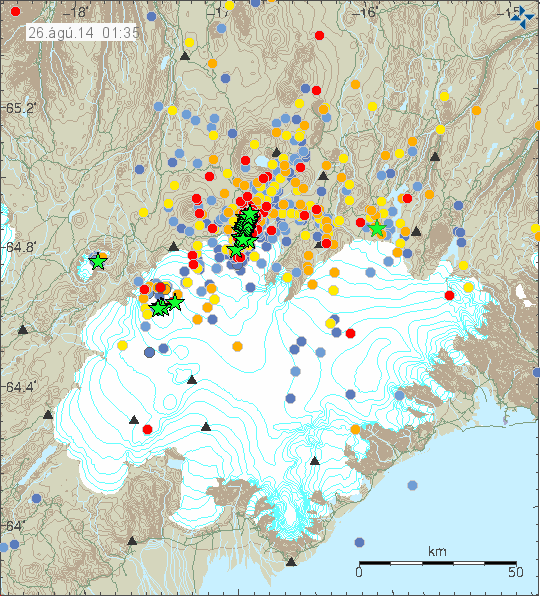
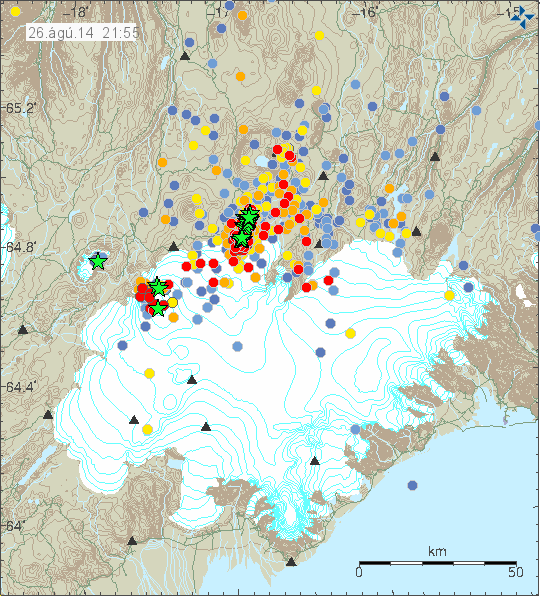
Adding controls

diff --git a/index.html b/index.html
@@ -81,8 +81,8 @@
 <script type="text/javascript" src="webgl-setup.js" ></script>
       
 
-<script type="text/javascript">
 
+<script type="text/javascript">
 
 	var timeNow;
 
@@ -95,8 +95,12 @@
 	var animParams = {
 		depthScale: 4.0,
 		animLength: 120, // seconds
-		finalSceneLength: 30 //seconds
-	}
+		finalSceneLength: 30, //seconds
+		minQuakeSize: 0 ,//
+		mapdepth: 0, // km
+		flybyRadius: 2, // degrees
+		flybyHeight: 50 //
+ 	}
 	var animTime;
 
 	
@@ -118,9 +122,9 @@
 			hours = 4;
 		}
 		if (q.size >= 3) {
-			return q.size  / Math.min(hours,1);
+			return q.size  / Math.min(0.2+hours,1);
 		}
-		return q.size / Math.min(Math.max(0.3,hours),1);
+		return q.size / Math.min(0.5+hours,1);
 	}	
 	
 	function mapColor(q,time) {
@@ -145,7 +149,18 @@
 
 	}
 
+	function loadCanvas(dataURL,canvas) {
+        var canvas = document.getElementById(canvas);
+        var context = canvas.getContext('2d');
 
+        // load image from data url
+        var imageObj = new Image();
+        imageObj.onload = function() {
+          context.drawImage(this, 0, 0);
+        };
+
+        imageObj.src = dataURL;
+    }
     var rIco = 0;
 	var szIco = 0;
 	var quakes = [
@@ -155,7 +170,19 @@
 
     function drawScene(time) {
 		document.getElementById("timer").innerHTML=time;
-		var mapdepth = document.getElementById("mapdepth").value;
+
+		animParams.mapdepth = document.getElementById("mapdepth").value;
+		document.getElementById("mapdepthdisp").value=animParams.mapdepth;
+
+		animParams.minQuakeSize = document.getElementById("minQuakeSize").value;
+		document.getElementById("minQuakeDisp").value=animParams.minQuakeSize;
+
+		animParams.flybyRadius = document.getElementById("flybyRadius").value;
+		document.getElementById("flybyRadiusDisp").value=animParams.flybyRadius;
+
+		animParams.flybyHeight = document.getElementById("flybyHeight").value;
+		document.getElementById("flybyHeightDisp").value=animParams.flybyHeight;
+
         gl.viewport(0, 0, gl.viewportWidth, gl.viewportHeight);
         gl.clear(gl.COLOR_BUFFER_BIT | gl.DEPTH_BUFFER_BIT);
  
@@ -163,7 +190,9 @@
 
         mat4.identity(mvMatrix);
 		var lap = sphere2Cart(64.701,-17,earthRadius-5);
-		var lfp = sphere2Cart(64.7+2*Math.cos((timeNow-timeStart)/5000.0),-17+2*Math.sin((timeNow-timeStart)/5000.0),earthRadius+50);
+		var lfp = sphere2Cart(64.7+animParams.flybyRadius*Math.cos((timeNow-timeStart)/5000.0),-17+
+					animParams.flybyRadius*Math.sin((timeNow-timeStart)/5000.0),
+			earthRadius+animParams.depthScale * animParams.flybyHeight);
 		mvMatrix = mat4.lookAt([lfp.x,lfp.y,lfp.z]  ,[lap.x,lap.y,lap.z],[lap.x,lap.y,lap.z]);
 		/*lap = {x:0,y:0,z:0};
 		lfp = {x:1,y:4,z:5};
@@ -172,14 +201,14 @@
 		for ( i in quakes) {
 			
 			q=quakes[i];
-			if(q.date < time ) {
+			if(q.date < time && q.size >= animParams.minQuakeSize) {
 				drawSphere(q.pos,mapSize(q,time),mapColor(q,time));
 			}
 		}
 		
 		drawEarthWF({x:0,y:0,z:0},earthRadius);
 		//drawMap(sphere2Cart(64.701,-17,earthRadius),3,4,5);
-		drawMap(-animParams.depthScale*mapdepth);
+		drawMap(-animParams.depthScale*animParams.mapdepth);
 	}
 
     var lastTime = 0;
@@ -261,11 +290,20 @@
     	<canvas id="bunga-bunga-canvas" style="border: none;" width="800" height="800"></canvas>
 		<div id="timer"></div>
     </div>
-	<div id="controls" style="margin-left: 820px">Depth of map:<input id="mapdepth" type="range" min="-40" max="2"  width="20px" heigth="100px"/>
-	(The map is slightly offset, I'm trying to figure it out)
-	<br>
+
+	<div id="controls" style="margin-left: 820px">
+		Depth of map:<br><input id="mapdepth" type="range" min="-40" max="2" step="1" width="20px" heigth="100px"> 
+		<input type="text" id="mapdepthdisp" editable="false"><br>
+	(The map is slightly offset, I'm trying to figure it out)<br>
+		Minimum quake size: <br><input id="minQuakeSize" type="range" min="0" max="8" step="0.2" value="0">
+		<input type="text" id="minQuakeDisp"></input> <br>
+		Flyby radius: <br><input id="flybyRadius" type="range" min="0" max="15" step="0.5" value="5">
+		<input type="text" id="flybyRadiusDisp"></input> <br>
+		Flyby height: <br><input id="flybyHeight" type="range" min="-20" max="20" step="1" value="5">
+		<input type="text" id="flybyHeightDisp"></input> <br>
 	One day I will try to explain what it is I'm actually trying to show you.
 	</div>
+
 </div>
  <div id="credits">
 <p class="credit-list">Created by <a href="mailto:blitzkopf@gmail.com">Yngvi Þór</a>, inspired by <a href="http://baering.github.io">3dBulge</a> 
